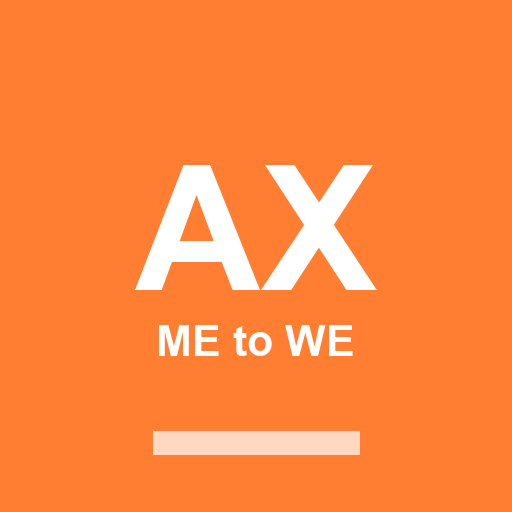
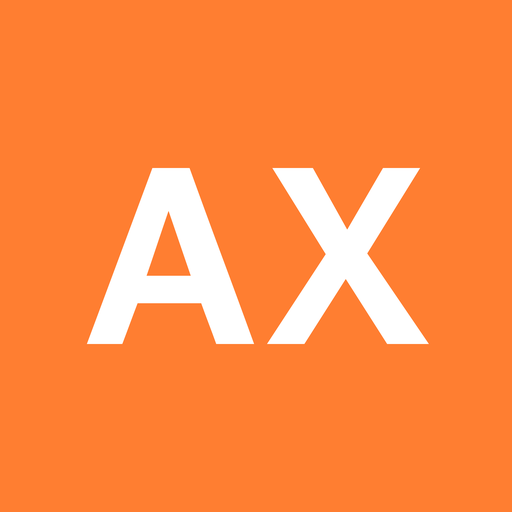
홈 화면 아이콘 재제작, 진입 화면 UI를 앱 카드 문법으로
- 아이콘: O100 바탕 + 흰 AX(현대해상 고딕 EB) 한 덩어리.
  부제 'ME to WE'와 의미 없는 옅은 막대 삭제(60px에서 안 읽히고 순수 장식)
  maskable은 글자폭 52%로 안전영역 안에 앉힘, 생성기 build-icons.py 신설
- 진입 화면: 네이비 ME to WE 월드는 유지, 손이 닿는 UI만 앱 문법으로 교체.
  반투명 글래스 입력창 -> 흰 카드(r20 + 오렌지 헤어라인) 안 O5 입력면 + O100 버튼
- 홈 화면 추가 안내의 아이콘 그림도 실제 아이콘과 같게 맞춤

Changed region(s): [[0.1562, 0.3125, 0.8438, 0.7188], [0.2812, 0.8438, 0.7188, 0.9062]]

diff --git a/index.html b/index.html
@@ -62,19 +62,22 @@
   #splash[data-phase="intro"] #skip { display: block; }
   #panel { position: relative; z-index: 10; margin-top: auto; transform: translateY(40px); opacity: 0; pointer-events: none; transition: transform 0.7s, opacity 0.7s; }
   #splash[data-phase="ready"] #panel, #splash[data-phase="static"] #panel { transform: translateY(0); opacity: 1; pointer-events: auto; }
-  #panel .inner { background: linear-gradient(to top, #001F5B 0%, rgba(0,31,91,0.85) 60%, transparent 100%); padding: 64px 24px 32px; }
+  /* 월드(네이비+골드)는 그대로 두고, 손이 닿는 부분만 앱 카드 문법으로 (260830).
+     반투명 글래스 입력창은 앱 어디에도 없는 재질이라 진입부터 톤이 어긋났다.
+     이제 흰 카드(r20 + 오렌지 헤어라인)가 월드 위에 올라오고, 입장하면 같은 재질이 이어진다. */
+  #panel .inner { background: linear-gradient(to top, #001F5B 0%, rgba(0,31,91,0.9) 46%, transparent 100%); padding: 72px 16px calc(20px + env(safe-area-inset-bottom)); }
   .tagline { text-align: center; font-size: calc(19px * var(--fs)); font-weight: 800; letter-spacing: 0.2em; color: #fff; }
-  .tagline .me { color: rgba(255,255,255,0.6); }
-  .tagline .we { color: #FF9E1B; text-shadow: 0 0 12px rgba(255,158,27,0.6); }
-  .sub { margin-top: 6px; text-align: center; font-size: calc(13.5px * var(--fs)); color: rgba(255,255,255,0.6); }
-  #entryForm { margin-top: 24px; display: flex; flex-direction: column; gap: 10px; }
-  #entryForm input { width: 100%; border-radius: 16px; border: 1px solid rgba(255,255,255,0.2); background: rgba(255,255,255,0.1); padding: 14px 16px; font-size: calc(16.5px * var(--fs)); color: #fff; outline: none; backdrop-filter: blur(4px); }
-  #entryForm input::placeholder { color: rgba(255,255,255,0.4); }
-  #entryForm input:focus { border-color: #FF9E1B; }
-  #err { font-size: calc(14.5px * var(--fs)); color: #fca5a5; display: none; }
-  #entryForm button { width: 100%; border: 0; cursor: pointer; border-radius: 16px; background: #FF7E31; padding: 16px; font-size: calc(16.5px * var(--fs)); font-weight: 700; color: #fff; transition: transform 0.1s; }
+  .tagline .me { color: rgba(255,255,255,0.55); }
+  .tagline .we { color: #FF9E1B; }
+  .sub { margin-top: 6px; text-align: center; font-size: calc(13.5px * var(--fs)); color: rgba(255,255,255,0.62); }
+  #entryForm { margin-top: 18px; background: var(--white); border: 1.5px solid var(--line); border-radius: 20px; padding: 16px 15px 15px; display: flex; flex-direction: column; gap: 9px; }
+  #entryForm input { width: 100%; border-radius: 14px; border: 1.5px solid var(--line); background: var(--surface2); padding: 14px 15px; font-family: inherit; font-size: calc(16.5px * var(--fs)); font-weight: 700; color: var(--hi); outline: none; }
+  #entryForm input::placeholder { color: var(--faint); font-weight: 700; }
+  #entryForm input:focus { border-color: var(--mint); background: var(--white); }
+  #err { font-size: calc(14.5px * var(--fs)); font-weight: 700; color: #E5484D; display: none; }
+  #entryForm button { width: 100%; border: 0; cursor: pointer; border-radius: 14px; background: var(--mint); padding: 16px; font-family: inherit; font-size: calc(16.5px * var(--fs)); font-weight: 800; color: #fff; transition: transform 0.1s; }
   #entryForm button:active { transform: scale(0.98); }
-  .note { text-align: center; font-size: calc(12.5px * var(--fs)); color: rgba(255,255,255,0.4); }
+  .note { text-align: center; font-size: calc(12.5px * var(--fs)); line-height: 1.5; color: var(--muted); }
 
   /* 홈 화면에 추가 · 로그인 직후 전용 단계 화면 (풀스크린) */
   #a2hs { position: fixed; inset: 0; z-index: 120; background: var(--paper); overflow-y: auto; animation: fadeIn 0.3s; }
@@ -82,9 +85,9 @@
   @keyframes fadeIn { from { opacity: 0 } to { opacity: 1 } }
   #a2hs .a-wrap { min-height: 100%; max-width: 360px; margin: 0 auto; display: flex; flex-direction: column; justify-content: center; padding: 44px 24px calc(28px + env(safe-area-inset-bottom)); text-align: center; }
   #a2hs .a-eyebrow { font-family: var(--disp); font-size: calc(13.5px * var(--fs)); letter-spacing: 0.14em; color: var(--acc2); }
-  #a2hs .a-ico { margin: 18px auto 0; width: 86px; height: 86px; border-radius: 22px; background: var(--mint); border: 0; display: flex; flex-direction: column; align-items: center; justify-content: center; gap: 2px; box-shadow: 0 14px 34px rgba(255,126,49,0.3); }
-  #a2hs .a-ico b { font-family: var(--disp); font-size: 30px; line-height: 1; color: #fff; }
-  #a2hs .a-ico small { font-size: calc(10px * var(--fs)); font-weight: 800; letter-spacing: 0.04em; color: #fff; }
+  /* 실제 홈 화면 아이콘과 같은 그림을 보여준다(O100 + 흰 AX, 부제·장식 없음) */
+  #a2hs .a-ico { margin: 18px auto 0; width: 86px; height: 86px; border-radius: 22px; background: var(--mint); border: 0; display: flex; align-items: center; justify-content: center; box-shadow: 0 14px 34px rgba(255,126,49,0.3); }
+  #a2hs .a-ico b { font-size: 40px; font-weight: 900; line-height: 1; letter-spacing: -0.02em; color: #fff; }
   #a2hs .a-t { margin-top: 20px; font-size: 24px; font-weight: 800; line-height: 1.35; color: var(--hi); letter-spacing: -0.02em; }
   #a2hs .a-s { margin-top: 10px; font-size: calc(15.5px * var(--fs)); line-height: 1.7; color: var(--muted); }
   #a2hs .a-s b { color: var(--acc2); }
@@ -684,7 +687,7 @@
   <div id="a2hs" hidden>
     <div class="a-wrap">
       <p class="a-eyebrow">마지막 한 단계</p>
-      <span class="a-ico"><b>AX</b><small>ME to WE</small></span>
+      <span class="a-ico"><b>AX</b></span>
       <p class="a-t">홈 화면에<br>바로가기를 만드세요</p>
       <p class="a-s">다음부터 QR 없이 <b>아이콘 한 번</b>으로 열립니다.<br>행사 당일, 여는 속도가 곧 참여 속도예요.</p>
       <div id="a2hsBody"></div>
